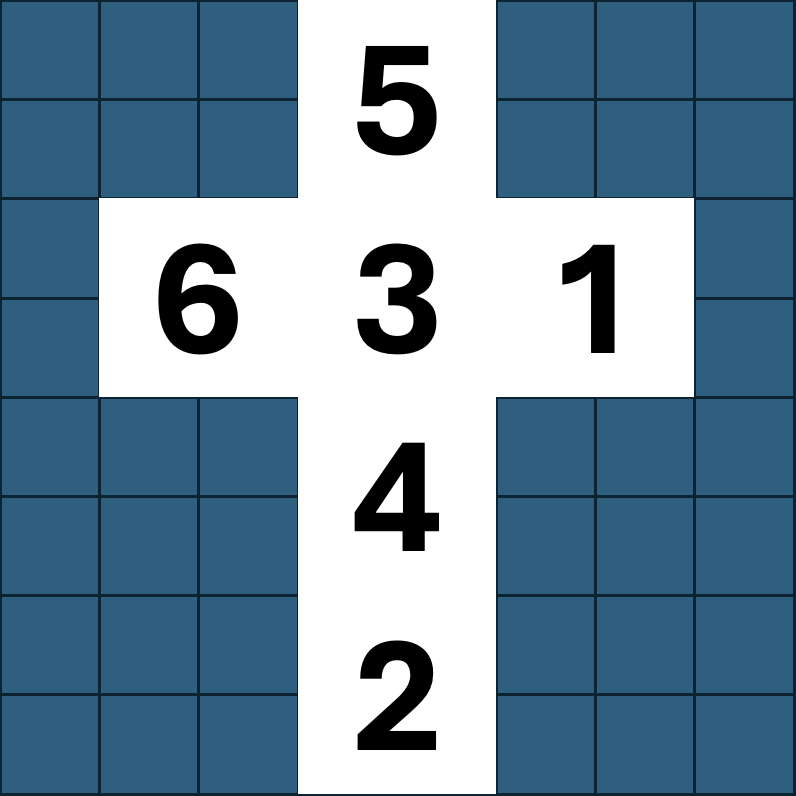
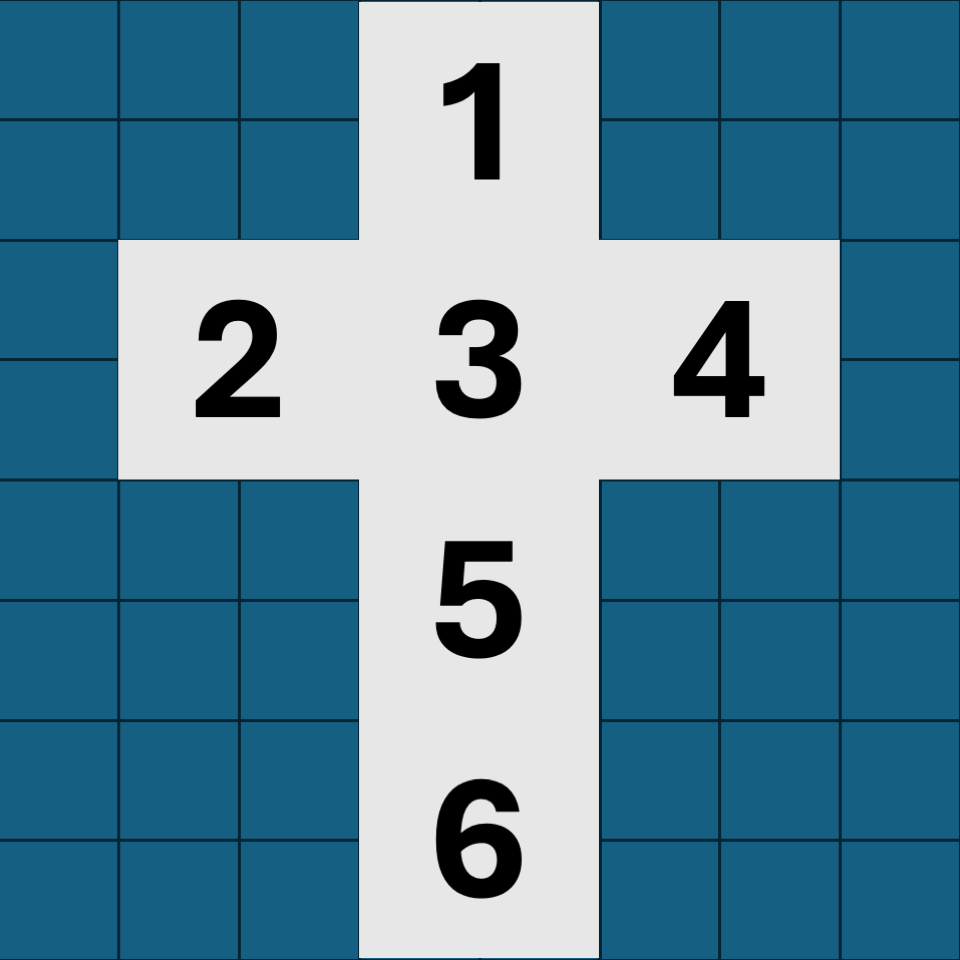
rotate and find top face

diff --git a/src/dice.tsx b/src/dice.tsx
@@ -3,9 +3,11 @@ import React, { useEffect, useRef, useState } from "react";
 import {
     Viro3DObject,
     ViroMaterials,
+    ViroText,
 } from "@reactvision/react-viro";
 import { Viro3DPoint, ViroScale } from "@reactvision/react-viro/dist/components/Types/ViroUtils";
 import { getCustomTypePath, getRandomFile, Templates, templatesList } from "./profile";
+import { getFaceIndex, getRotationCorrectionForTopFace, isSamePoint } from "./utils";
 
 interface DiceProps {
     cubeKey: string;
@@ -16,12 +18,15 @@ interface DiceProps {
     initialImpulse: Viro3DPoint;
     initialTourqe: Viro3DPoint;
     template: Templates;
+    onFaceSettled: (face: number) => void;
 }
 
 const cubeDots = require("../assets/dot-dice.obj");
 const cubeEmpty = require("../assets/dice-empty.obj");
 
-export default function DiceObject({ cubeKey, cubeInfoKey, index, template, initialPosition, scale, initialImpulse, initialTourqe }: DiceProps) {
+
+export default function DiceObject({ cubeKey, cubeInfoKey, index, template, initialPosition, scale,
+    initialImpulse, initialTourqe, onFaceSettled }: DiceProps) {
     const cube = useRef<Viro3DObject | null>(undefined);
     const [hideDice, setHideDice] = useState<boolean>(false);
 
@@ -75,6 +80,7 @@ export default function DiceObject({ cubeKey, cubeInfoKey, index, template, init
         setHideDice(true);
         setTimeout(() => {
             console.log("scale", scaleRef.current)
+            onFaceSettled(-1)
             cube.current?.setNativeProps({ scale: scaleRef.current })
             setHideDice(false)
             setTimeout(() => {
@@ -94,12 +100,78 @@ export default function DiceObject({ cubeKey, cubeInfoKey, index, template, init
         }
     };
 
+
+    function animateRotation(
+        current: [number, number, number],
+        target: [number, number, number],
+        duration: number = 500
+      ) {
+        const startTime = Date.now();
+      
+        function step() {
+          const elapsed = Date.now() - startTime;
+          const t = Math.min(elapsed / duration, 1); // t in [0, 1]
+          const interpolated: [number, number, number] = [
+            current[0] + (target[0] - current[0]) * t,
+            current[1] + (target[1] - current[1]) * t,
+            current[2] + (target[2] - current[2]) * t,
+          ];
+          cube.current?.setNativeProps({ rotation: interpolated });
+          if (t < 1) {
+            requestAnimationFrame(step);
+          }
+        }
+        requestAnimationFrame(step);
+      }
+
+    useEffect(() => {
+        let prevProps: any = undefined;
+        let interval: NodeJS.Timeout | undefined = setInterval(() => {
+            if (cube.current) {
+                cube.current.getTransformAsync().then((props: any) => {
+                    console.log(props);
+
+                    if (prevProps && isSamePoint(prevProps.position, props.position) &&
+                        isSamePoint(prevProps.rotation, props.rotation)) {
+                        // object at rest
+                        const faceUp = getFaceIndex(props.rotation);
+                        onFaceSettled(faceUp);
+
+                        const fixRotation = getRotationCorrectionForTopFace(faceUp, props.rotation);
+                        console.log("Dice", index, "At Rest", prevProps.rotation);
+                        //cube.current?.setNativeProps({rotation:fixRotation})
+                        animateRotation(props.rotation, fixRotation, 1000);
+
+                        clearInterval(interval);
+                        interval = undefined;
+                    }
+
+                    prevProps = props;
+
+                });
+            }
+        }, 500); // Check every second
+
+        return () => {
+            if (interval != undefined) clearInterval(interval)
+        }
+    }, [cubeKey]);
+
     const isDots = template == Templates.Dots
     return (isDots ?
         <Viro3DObject
             key={"dots"}
             ref={r => cube.current = r}
             onLoadEnd={!hideDice ? onDiceLoadEnd : undefined}
+
+            // onTransformUpdate={pos=>{
+            //     console.log("on transform", pos)
+            // }}
+            // onRotate={(state)=>{
+            //     console.log("on rotate", state)
+            // }}
+            // highAccuracyEvents={true}
+
             source={cubeDots}
             position={hideDice ? [5, 5, 5] : initialPosition}
 

diff --git a/src/utils.ts b/src/utils.ts
@@ -1,5 +1,6 @@
 import { Platform, PermissionsAndroid } from "react-native";
 import { useEffect, useState } from "react";
+import { Viro3DPoint } from "@reactvision/react-viro/dist/components/Types/ViroUtils";
 
 export function joinPaths(...segments: string[]) {
   return segments
@@ -49,3 +50,102 @@ export async function requestAudioPermission() {
 }
 
 export const ignore = () => { };
+
+export const isSamePoint = (p1: Viro3DPoint, p2: Viro3DPoint) => p1[0] == p2[0] && p1[1] == p2[1] && p1[1] == p2[1];
+const normalizeRotation = (n: number) => {
+  const approx = (targetNum: number): boolean => n <= targetNum + .01 && n >= targetNum - .01;
+
+
+  if (approx(-180) || approx(0)) {
+    return "0";
+  }
+  if (approx(-90)) return "-90";
+  if (approx(90)) return "90";
+  if (approx(180)) return "180"
+  return "X";
+}
+
+
+const faceMap: { [key: string]: number } = {
+  "X|0|-90": 0,
+  "0|X|0": 1,
+  "-90|X|0": 2,
+  "90|X|0": 3,
+  "0|X|180": 4,
+  "X|0|90": 5
+}
+// export const getFaceIndex = (r: Viro3DPoint): number => {
+//   const key = normalizeRotation(r[0]) + "|" + normalizeRotation(r[1]) + "|" + normalizeRotation(r[2]);
+//   console.log("getFaceIndex", key)
+//   return faceMap[key] as number;
+// }
+
+// Determines which face is facing upwards based on the rotation values
+//export const getFaceIndex = (rotation: [number, number, number]): number => {
+/**
+ * Given Euler angles [rx, ry, rz] in degrees (using an "XYZ" rotation order),
+ * this function computes the effective "up" vector (the result of rotating [0,1,0])
+ * and returns which face is most aligned with up.
+ *
+ * It assumes that when no rotation is applied the "Top" face is up.
+ */
+export function getFaceIndex(euler: [number, number, number]): string {
+  // Convert degrees to radians.
+  const [rx, ry, rz] = euler.map(deg => (deg * Math.PI) / 180);
+
+  // Compute sine and cosine values.
+  const cosX = Math.cos(rx), sinX = Math.sin(rx);
+  const cosY = Math.cos(ry), sinY = Math.sin(ry);
+  const cosZ = Math.cos(rz), sinZ = Math.sin(rz);
+
+  // For an "XYZ" rotation, the combined rotation matrix R = Rz * Ry * Rx,
+  // and the rotated up vector v' = R * [0, 1, 0] is given by the second column of R.
+  // The formula for that (derived from Three.js's Euler conversion) is:
+  //    up_x = -cosY * sinZ
+  //    up_y = cosX * cosZ - sinX * sinY * sinZ
+  //    up_z = sinX * cosZ + cosX * sinY * sinZ
+  const upX = -cosY * sinZ;
+  const upY = cosX * cosZ - sinX * sinY * sinZ;
+  const upZ = sinX * cosZ + cosX * sinY * sinZ;
+
+  // Determine which component (X, Y, or Z) has the greatest absolute value.
+  const absX = Math.abs(upX);
+  const absY = Math.abs(upY);
+  const absZ = Math.abs(upZ);
+
+  if (absY >= absX && absY >= absZ) {
+    return upY >= 0 ? "Top" : "Bottom";
+  } else if (absX >= absZ) {
+    return upX >= 0 ? "Right" : "Left";
+  } else {
+    return upZ >= 0 ? "Front" : "Back";
+  }
+}
+
+/**
+ * Returns a rotation correction (as an [x, y, z] Euler in degrees) so that the face that’s up
+ * will be oriented similarly to the default “Top” orientation.
+ *
+ * These correction values are heuristic and depend on the dice’s model.
+ */
+export function getRotationCorrectionForTopFace(topFace: "Top" | "Bottom" | "Front" | "Back" | "Right" | "Left",
+  origRotation: [number, number, number]
+): [number, number, number] {
+  switch (topFace) {
+    case "Top": //4
+      return [origRotation[0], 0, origRotation[2]];
+    case "Bottom": //2
+      return [origRotation[0], 180, origRotation[2]];
+    case "Front": //5
+      return [origRotation[0], 90, origRotation[2]];
+    case "Back": //1
+      return [origRotation[0], -90, origRotation[2]];
+    case "Right": //6
+      return [0, origRotation[1], origRotation[2]];
+    case "Left": //3
+      return [-180, origRotation[1], origRotation[2]];
+
+    default:
+      return [0, 0, 0];
+  }
+}

diff --git a/src/edit-dice.tsx b/src/edit-dice.tsx
@@ -28,7 +28,7 @@ const emptyFaceText: FaceText = {
     text: "",
     fontSize: 0,
     fontBold: false,
-    backgroundColor: "white",
+    backgroundColor: "#E7E7E7",
     color: "black"
 
 }
@@ -77,14 +77,14 @@ export function EditDice({ onClose, name, width }: EditDiceProps) {
     }
 
     function handleFaceTextChange(index: number, faceText: FaceText) {
+        console.log("save face text", faceText)
         if (faceText.text.length > 0) {
             // Save it as a json file
-
             const basePath = getCustomTypePath(editedName);
-            const faceName = `face_${index}$$${Math.floor(Math.random() * 1000000)}.json`
+            const faceName = `face_${index}$$_.json`
             const content = JSON.stringify(faceText, undefined, " ");
             const faceFilePath = path.join(basePath, faceName);
-            writeFile(faceFilePath, content).then(() => {
+            writeFile(faceFilePath, content, basePath).then(() => {
                 setFaces(curr => {
                     curr[index] = faceFilePath;
                     return [...curr];
@@ -259,7 +259,7 @@ export function EditDice({ onClose, name, width }: EditDiceProps) {
                             }}
                         >
                             {faces[index]?.length > 0 && !faces[index].endsWith(".json") ?
-                                <Image source={{ uri: faces[index] }} style={{ width: 75, height: 75, backgroundColor: "white" }} /> :
+                                <Image source={{ uri: faces[index] }} style={{ width: 75, height: 75, backgroundColor: "#E7E7E7" }} /> :
                                 (facesText[index].text.length > 0 ?
                                     <TextFace style={[]} faceText={facesText[index]} size={75} /> :
                                     <Icon name="plus" size={35} />)
@@ -466,7 +466,7 @@ const styles = StyleSheet.create({
     previewFace: {
         position: 'absolute',
         transformOrigin: "0.0",
-        backgroundColor: "white",
+        backgroundColor: "#E7E7E7",
     },
     faceBorder: {
         borderWidth: 1,
@@ -494,7 +494,7 @@ const styles = StyleSheet.create({
         ],
     },
     textFaceContainer: {
-        backgroundColor: "white",
+        backgroundColor: "#E7E7E7",
         alignItems: "center",
         justifyContent: "center"
     },

diff --git a/src/diceScene.tsx b/src/diceScene.tsx
@@ -47,6 +47,7 @@ export const DiceScene = forwardRef(({ initialImpulse, initialTorque, profile, w
     const [sceneRevision, setSceneRevision] = useState<number>(0);
     const [currWindowSize, setCurrWindowSize] = useState<WinSize>(windowSize);
     const [cameraTilt, setCameraTilt] = useState<number>(0);
+    const [faceSettled, setFaceSettled] = useState<number[]>([-1, -1, -1, -1])
     const tableRef = useRef<any>(undefined);
 
     useEffect(() => ViroMaterials.createMaterials({
@@ -56,6 +57,13 @@ export const DiceScene = forwardRef(({ initialImpulse, initialTorque, profile, w
         },
     }), []);
 
+    function handleFaceSettled(index:number, faceIndex:number) {
+        setFaceSettled(prev=>{
+            const newFaces = [...prev];
+            newFaces[index] = faceIndex;
+            return newFaces;
+        })
+    }
 
     useImperativeHandle(ref, (): DiceSceneMethods => ({
         rollDice: (i, t) => {
@@ -103,7 +111,7 @@ export const DiceScene = forwardRef(({ initialImpulse, initialTorque, profile, w
         <ViroScene physicsWorld={{ gravity: [0, -9.8, 0], drawBounds: false }}>
             <ViroAmbientLight color="#FFFFFF" intensity={500} />
             <ViroSpotLight color="#FFFFFF" direction={[0, -1, 0]} castsShadow={true} />
-            {/* <ViroText text={"w" + w + ",h:" + h} /> */}
+            {/*  <ViroText text={faceSettled.join(",")} scale={[4,4,4]}/>  */}
             <ViroCamera active position={[0, 6, 2 - (cameraTilt * 4)]} rotation={[-60 - (cameraTilt * 30), 0, 0]} />
 
 
@@ -186,7 +194,7 @@ export const DiceScene = forwardRef(({ initialImpulse, initialTorque, profile, w
                             scale={[scaledDiceSize, scaledDiceSize, scaledDiceSize]}
                             initialImpulse={impulse}
                             initialTourqe={torque}
-
+                            onFaceSettled={(faceIndex: number) => handleFaceSettled(i, faceIndex)}
                         />
                     )
                     )}

diff --git a/src/color-picker.tsx b/src/color-picker.tsx
@@ -7,7 +7,7 @@ import { SettingsKeys } from "./profile";
 import { ColorButton, FadeInView } from "./components";
 
 export const availableColorPicker = [
-    '#000000', '#fee100', '#20ad57', '#5db7dd', '#2958af', '#d62796', '#65309c', '#da3242'
+    '#000000', '#fee100', 'green', '#5db7dd', '#2958af', '#d62796', '#E7E7E7', '#da3242'
 ]
 
 
@@ -71,7 +71,7 @@ export function MyColorPicker({ open, color, title, width, height, isScreenNarro
 
     //trace("last colors", lastColors)
     //trace("color", props.color, "composed", composedColor)
-    return <FadeInView height={actHeight + (openMore ? 250 : 0)}
+    return <FadeInView height={actHeight + (openMore ? 270 : 0)}
         style={[styles.pickerView, { bottom: 0, left: 0, right: 0 }]}>
         <Text allowFontScaling={false} style={{ fontSize: 25, margin: 25 }}>{title}</Text>
         <View style={styles.closeButton}>
@@ -162,13 +162,12 @@ export function MyColorPicker({ open, color, title, width, height, isScreenNarro
                         }
                     }}
 
-                    sliderSize={0}
+                    sliderSize={20}
                     noSnap={true}
                     row={false}
                     gapSize={10}
                     thumbSize={25}
                     autoResetSlider={true}
-
                     swatches={false}
                 />
             </View>

diff --git a/src/edit-text.tsx b/src/edit-text.tsx
@@ -52,10 +52,10 @@ export const EditText: React.FC<EditTextProps> = ({
     onDone, onClose, width, textWidth, textHeight,
 }) => {
     const [text, setText] = useState(initialText);
-    const [fontSize, setFoneSize] = useState(initialFontSize || 20);
+    const [fontSize, setFoneSize] = useState(initialFontSize || 30);
     const [isBold, setIsBold] = useState(initialFontBold !== undefined ? initialFontBold : false);
     const [color, setColor] = useState(initialColor || "black");
-    const [backgroundColor, setBackgroundColor] = useState(initialBGColor || "white");
+    const [backgroundColor, setBackgroundColor] = useState(initialBGColor || "#E7E7E7");
     const [openColorPicker, setOpenColorPicker] = useState<ColorPickerProps | undefined>();
 
 

diff --git a/src/profile.ts b/src/profile.ts
@@ -567,8 +567,14 @@ function loadFile(path: string) {
     return RNFS.readFile(ensureAndroidCompatible(path), 'utf8');
 }
 
-export function writeFile(path: string, content: string) {
-    return RNFS.writeFile(ensureAndroidCompatible(path), content);
+export async  function writeFile(path: string, content: string, verifyFolderExists?:string) {
+    if (verifyFolderExists) {
+        if (!await RNFS.exists(verifyFolderExists)) {
+            await RNFS.mkdir(verifyFolderExists);
+        }
+    }
+    return RNFS.writeFile(ensureAndroidCompatible(path), content)
+   
 }
 
 function getTempFileName(ext: string) {
